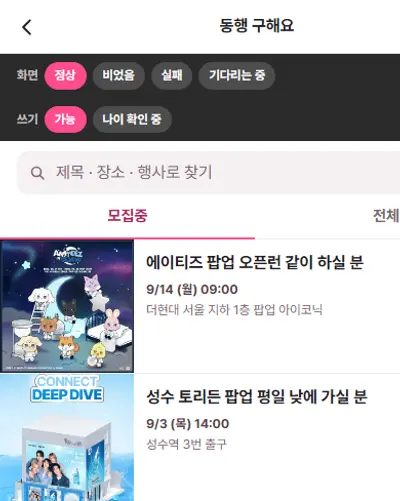
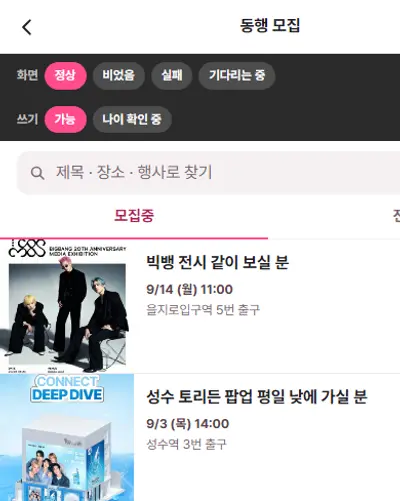
아티스트 목록에 포스터, 그리고 문구·활자 정리 다섯 건
- 아티스트 모아보기의 각 줄 앞에 포스터를 세웠다. 이름만 늘어놓으면
  스무 줄이 다 같아 보인다. 구·종류·마감은 둘째 줄로 내렸다
- 화면 제목 「동행 구해요」 → 「동행 모집」. 제목은 그 자리의 이름이지
  글쓴이가 쓸 문장이 아니다
- 내 프로필에서 「3일 이내 활동」 을 뺐다. 남의 프로필에서는 답이 올지를
  가늠하는 값이지만 내 화면에서는 나에 대해 아무것도 알려주지 않는다
- 탈퇴·탈퇴 완료 문구를 다시 썼다. 「~하려는 것입니다」 로 이유를 덧대는
  투와 「위 내용을 확인했고」 같은 서식 문장을 걷어냈다
- 백오피스 탭에서 AD-02 같은 명세 번호를 뺐다. 우리 문서의 줄 번호라
  쓰는 사람에게는 뜻이 없고, 문서가 바뀌면 화면이 거짓말을 한다
- 약관·처리방침을 14px 한 크기로 묶고 굵은 글씨를 전부 없앴다. 조 제목은
  색과 여백으로만 갈린다. 단서 상자의 색선도 뗐다

곁들여: 온보딩의 탈퇴 두 줄이 프로필 사진을 빌려 쓰고 있어 제 화면을
찍도록 고치고, 바뀐 화면들 스크린샷을 다시 받았다 (18장)

diff --git a/src/app/ui.css b/src/app/ui.css
@@ -1766,7 +1766,6 @@
   color: var(--text-dim);
 }
 
-.leave__list b { color: var(--text); font-weight: 700; }
 
 .leave__note {
   margin-top: 12px;
@@ -2115,56 +2114,40 @@
 
 /* ── 약관·처리방침 자리 ────────────────────────────────── */
 
-.legal { padding: 24px var(--gutter) 40px; }
-.legal__lead { font-size: var(--t-title); font-weight: 800; color: var(--text); }
-.legal__body {
-  margin-top: 10px;
-  font-size: var(--t-body);
-  line-height: 1.7;
-  color: var(--text-mute);
+/* 글자 크기를 문서 안에서 하나로 맞춘다. 앞머리·조문·목록·표·단서가
+   저마다 다른 크기면 어느 것이 본문인지 눈이 계속 다시 잡는다.
+   굵은 글씨도 안 쓴다 — 굵은 줄은 「여기만 읽어도 된다」 는 신호가
+   되는데 약관에 그런 줄은 없다 */
+.legal {
+  --t-legal: 14px;
+  padding: 24px var(--gutter) 40px;
+  font-size: var(--t-legal);
 }
+/* 앞머리도 본문과 같은 크기다. 여기만 크게 두면 그 한 줄이 요약처럼
+   보이는데, 요약해서 될 글이 아니다 */
+.legal__lead { color: var(--text); }
+/* 조 제목은 굵기가 아니라 색과 위 여백으로만 갈린다. 종이에 인쇄된
+   약관이 그렇게 생겼다 */
 .legal__h {
   margin-top: 26px;
-  font-size: var(--t-strong);
-  font-weight: 700;
+  /* h2 라서 크기를 안 적으면 브라우저 기본값(1.5em)으로 커진다 */
+  font-size: inherit;
+  font-weight: 400;
   color: var(--text);
 }
-.legal__todo { list-style: none; margin: 10px 0 0; padding: 0; display: flex; flex-direction: column; gap: 8px; }
-.legal__todo li {
-  padding-left: 13px;
-  border-left: 2px solid var(--border-mid);
-  font-size: var(--t-sub);
-  line-height: 1.6;
-  color: var(--text-mute);
-}
-.legal__back { margin-top: 28px; font-size: var(--t-sub); }
+.legal__back { margin-top: 28px; }
 
 /* ── 약관·처리방침 본문 ─────────────────────────────────
    조문이 길어서 읽는 자리가 흐트러지지 않게 줄간격을 넉넉히 준다.
    법 문서는 훑는 것이 아니라 한 줄씩 읽는 글이다.
    ------------------------------------------------------- */
 
-/* 검토 전이라는 사실을 맨 위에서 못 박는다. 아래로 내리면 다 읽고
-   나서야 알게 된다 */
-.legal__draft {
-  margin-bottom: 18px;
-  padding: 12px 14px;
-  border-radius: var(--radius-sm);
-  background: var(--bg-sunk);
-  border: 1px solid var(--border-mid);
-  font-size: var(--t-sub);
-  line-height: 1.6;
-  color: var(--text-dim);
-}
-.legal__draft b { color: var(--accent-ink); font-weight: 700; }
-
-.legal__dates { margin-top: 8px; font-size: var(--t-small); }
+.legal__dates { margin-top: 8px; font-size: var(--t-legal); }
 
 .legal__sec { margin-top: 4px; }
 
 .legal__p {
   margin-top: 8px;
-  font-size: var(--t-sub);
   line-height: 1.75;
   color: var(--text-mute);
 }
@@ -2177,7 +2160,6 @@
   gap: 7px;
 }
 .legal__list li {
-  font-size: var(--t-sub);
   line-height: 1.65;
   color: var(--text-mute);
 }
@@ -2187,7 +2169,6 @@
 .legal__table {
   width: 100%;
   border-collapse: collapse;
-  font-size: var(--t-small);
   line-height: 1.55;
 }
 .legal__table th,
@@ -2198,22 +2179,20 @@
   vertical-align: top;
   word-break: keep-all;
 }
+/* 머리 칸은 바탕색으로만 갈린다 */
 .legal__table th {
   background: var(--bg-sunk);
-  font-weight: 700;
+  font-weight: 400;
   color: var(--text);
   white-space: nowrap;
 }
 .legal__table td { color: var(--text-mute); }
 
-/* 조문에 딸리는 단서. 본문과 같은 무게로 두면 어디까지가 조문이고
-   어디부터가 부연인지 갈리지 않는다 */
+/* 조문에 딸리는 단서. 색만 한 칸 흐리게 둔다. 색선을 그어두면
+   조문보다 그쪽이 먼저 눈에 들어온다 */
 .legal__note {
   margin-top: 10px;
-  padding-left: 12px;
-  border-left: 2px solid var(--accent);
-  font-size: var(--t-small);
-  line-height: 1.65;
+  line-height: 1.75;
   color: var(--text-dim);
 }
 
@@ -2464,7 +2443,6 @@
   color: var(--text);
   font-weight: 800;
 }
-.bo__tspec { font-size: var(--t-small); font-weight: 500; color: var(--text-mute); }
 
 /* 탭을 열었을 때 그 목록이 무엇인지 한 줄. 표만 있으면 「기록」 이
    무엇을 남기는 목록인지 운영자가 짐작해야 한다 */
@@ -3186,3 +3164,14 @@
 /* 헤더 오른쪽에 버튼 둘. 방장이 OPEN 글을 볼 때만 나온다.
    완료와 취소는 되돌릴 수 없는 것이 둘 다라 나란히 두고,
    무엇을 누르는지는 시트가 다시 묻는다 */
+
+/* 아티스트 모아보기의 한 줄.
+   포스터를 앞에 세우면서 구·종류·마감을 둘째 줄로 내렸다. 한 줄에 다
+   두면 사진이 먹은 폭 때문에 좁은 화면에서 넉 줄로 접힌다 */
+.drow--shot { align-items: center; }
+.drow__sub {
+  display: block;
+  margin-top: 3px;
+  font-size: var(--t-small);
+  color: var(--text-mute);
+}

diff --git a/src/app/w4871/me/leave/Leave.tsx b/src/app/w4871/me/leave/Leave.tsx
@@ -63,8 +63,8 @@ export default function Leave() {
     <PageShell title="회원 탈퇴" onBack={() => history.back()}>
       <div className="leave">
         <p className="leave__lead">
-          탈퇴하면 계정을 되살릴 수 없어요. 같은 카카오 계정으로 다시
-          가입해도 이전 기록은 돌아오지 않습니다.
+          탈퇴하면 되돌릴 수 없어요. 같은 카카오 계정으로 다시 가입해도
+          예전 기록은 안 돌아와요.
         </p>
 
         {/* 지워지는 것과 남는 것을 나란히 둔다. 하나만 적으면 나머지를
@@ -72,7 +72,7 @@ export default function Leave() {
         <section className="leave__box">
           <h2 className="leave__h">지워지는 것</h2>
           <ul className="leave__list">
-            <li>닉네임 · 한줄소개 · 프로필 사진</li>
+            <li>닉네임, 한줄소개, 프로필 사진</li>
             <li>카카오 연결</li>
           </ul>
         </section>
@@ -81,17 +81,17 @@ export default function Leave() {
           <h2 className="leave__h">남는 것</h2>
           <ul className="leave__list">
             <li>
-              쓴 모집글과 댓글은 <b>닉네임을 지운 채 자리표시자로</b> 남습니다.
-              오가던 대화의 맥락이 끊기지 않게 하려는 것입니다
+              쓰신 모집글과 댓글. 닉네임은 지우고 빈 자리로 둬요. 주고받던
+              말이 중간에 끊기지 않게요
             </li>
             <li>
-              신고·제재 기록은 정해진 기간 동안 남습니다. 제재를 피해 탈퇴한 뒤
-              다시 가입하는 것을 막기 위한 것이고, 그 목적에만 씁니다
+              신고나 이용 제한을 받은 기록. 정해진 기간 동안만 두고, 제재를
+              피해 나갔다 다시 들어오는 것을 막는 데만 써요
             </li>
           </ul>
           <p className="leave__note">
-            자세한 보관 기간은{' '}
-            <Link href="/privacy">개인정보 처리방침</Link> 제3조에 있습니다.
+            얼마나 두는지는{' '}
+            <Link href="/privacy">개인정보 처리방침</Link> 제3조에 적어뒀어요.
           </p>
         </section>
 
@@ -101,7 +101,7 @@ export default function Leave() {
             checked={agreed}
             onChange={(e) => setAgreed(e.target.checked)}
           />
-          <span>위 내용을 확인했고, 탈퇴에 동의합니다</span>
+          <span>다 읽었어요. 탈퇴할게요</span>
         </label>
 
         {failed && <p className="leave__err">{failed}</p>}
@@ -109,7 +109,7 @@ export default function Leave() {
 
       <div className="form__bar">
         <Button block tone="danger" disabled={!agreed || sending} onClick={submit}>
-          {sending ? '처리하는 중…' : '탈퇴하기'}
+          {sending ? '탈퇴하는 중…' : '탈퇴하기'}
         </Button>
       </div>
     </PageShell>

diff --git a/src/app/privacy/page.tsx b/src/app/privacy/page.tsx
@@ -61,7 +61,7 @@ const SECTIONS: LegalSection[] = [
       ['영구 정지', '조치일로부터 3년'],
       ['접속 기록', '3개월 (통신비밀보호법)'],
     ],
-    note: '이용 제한 기록을 두는 목적은 하나뿐입니다. 제재를 피하려고 탈퇴한 뒤 다시 가입하는 것을 막는 것입니다. 그래서 가벼운 조치일수록 짧게 둡니다. 위 기간에는 법이 정한 숫자가 없고(접속 기록만 통신비밀보호법을 따릅니다), 그 목적에 필요한 최소 기간으로 정한 것입니다. 기간이 지난 기록은 지체 없이 파기합니다.',
+    note: '이용 제한 기록은 제재를 피하려고 탈퇴한 뒤 다시 가입하는 것을 막는 데에만 씁니다. 그래서 가벼운 조치일수록 짧게 둡니다. 위 기간은 법이 정한 것이 아니라(접속 기록만 통신비밀보호법을 따릅니다) 그 목적에 필요한 최소한으로 정한 것이며, 기간이 지나면 지체 없이 파기합니다.',
   },
   {
     head: '제4조 (개인정보의 제3자 제공)',
@@ -153,7 +153,7 @@ const SECTIONS: LegalSection[] = [
         '아무 조치도 하지 않습니다',
       ],
     ],
-    note: '마지막 줄을 명시하는 이유는, 신고만으로 남의 계정을 지울 수 있게 두면 그 자체가 악용되기 때문입니다. 확인 과정에서는 판단에 필요한 최소한의 정보 외에 어떤 자료도 요구하지 않으며, 신분증 같은 것을 보내달라고 하지 않습니다.',
+    note: '신고만으로 남의 계정을 지울 수 있게 두면 그것부터 악용되므로 확인 절차를 둡니다. 확인할 때에도 판단에 필요한 최소한 외에는 아무 자료도 요구하지 않으며, 신분증 같은 것을 보내달라고 하지 않습니다.',
   },
   {
     head: '제11조 (정보주체의 권리와 행사 방법)',
@@ -233,7 +233,7 @@ export default function Page() {
       title="개인정보 처리방침"
       updated="2026-09-02"
       effective="2026-09-02"
-      lead="덕모임이 어떤 정보를 받고, 무엇에 쓰고, 언제 지우는지 적었습니다."
+      lead="덕모임이 어떤 정보를 받아 무엇에 쓰고 언제 지우는지에 관한 것입니다."
       sections={SECTIONS}
     />
   )

diff --git a/src/app/a/[subject]/SubjectList.tsx b/src/app/a/[subject]/SubjectList.tsx
@@ -16,6 +16,7 @@
 import { useMemo, useState } from 'react'
 import type { EventItem } from '@/types'
 import { DISTRICT_LABELS, EVENT_KIND_LABELS } from '@/lib/filters'
+import { posterSrc } from '@/lib/poster'
 
 export function SubjectList({ events }: { events: EventItem[] }) {
   const [q, setQ] = useState('')
@@ -57,14 +58,24 @@ export function SubjectList({ events }: { events: EventItem[] }) {
       ) : (
         <div className="dlist">
           {hits.map((ev) => (
-            <div className="drow" key={ev.id}>
-              <span className="drow__label">{DISTRICT_LABELS[ev.place.district]}</span>
+            <div className="drow drow--shot" key={ev.id}>
+              {/* 이름만 늘어놓으면 스무 줄이 다 같아 보인다. 포스터가 곧
+                  그 행사의 얼굴이라 작게라도 앞에 세운다 — 상세의
+                  「근처에서 열려요」 와 같은 크기를 쓴다 */}
+              <span className="near__thumb">
+                {ev.imageUrl && <img src={posterSrc(ev.imageUrl, 160)} alt="" loading="lazy" />}
+              </span>
               <span className="drow__value">
                 <a href={`/e/${encodeURIComponent(ev.id)}`}>{ev.place.name}</a>
-                {' · '}
-                {EVENT_KIND_LABELS[ev.kind]}
-                {' · '}~{ev.endsOn}
-                {ev.perks ? ` · ${ev.perks}` : ''}
+                {/* 구·종류·마감을 둘째 줄로 내린다. 사진이 앞을 먹어
+                    한 줄에 다 넣으면 좁은 화면에서 넉 줄로 접힌다 */}
+                <span className="drow__sub">
+                  {DISTRICT_LABELS[ev.place.district]}
+                  {' · '}
+                  {EVENT_KIND_LABELS[ev.kind]}
+                  {' · '}~{ev.endsOn}
+                  {ev.perks ? ` · ${ev.perks}` : ''}
+                </span>
               </span>
             </div>
           ))}

diff --git a/src/components/ProfileView.tsx b/src/components/ProfileView.tsx
@@ -32,7 +32,7 @@ import { Avatar, Badge, Blank, Button, Sheet, Tabs } from '@/components/ui/Basic
 import { ReportSheet } from '@/components/ui/ReportSheet'
 import { SanctionBanner, SanctionBlock } from '@/components/ui/SanctionNotice'
 import { swatchOf } from '@/lib/visual'
-import { canWrite, isBlocked, isClosed, LAST_SEEN_LABEL, type ClosedReason, type LastSeen, type PostState, type Sanction } from '@/types'
+import { canWrite, isBlocked, isClosed, type ClosedReason, type LastSeen, type PostState, type Sanction } from '@/types'
 import { wf } from '@/lib/wireframe'
 import { shortTime as whenShort } from '@/lib/when'
 
@@ -271,9 +271,7 @@ export default function ProfileView({
 
               <div className="myid__main">
                 <p className="myid__name">{user.nickname}</p>
-                <p className="myid__meta meta">
-                  {user.lastSeen && <span>{LAST_SEEN_LABEL[user.lastSeen]}</span>}
-                </p>
+
                 {/* 한줄소개를 내 화면에도 띄운다. 남에게 보이는 문구라
                     내 화면에서 안 보이면 무엇이 걸려 있는지 모른 채로
                     남는다. 비어 있으면 채우라고 말해준다 */}

diff --git a/src/app/w4871/bye/page.tsx b/src/app/w4871/bye/page.tsx
@@ -25,18 +25,16 @@ export default function Page() {
       <div className="bye">
         <img className="bye__mark" src="/duck-face.webp" alt="" width={88} height={88} />
 
-        <h1 className="bye__title">탈퇴가 끝났어요</h1>
+        <h1 className="bye__title">탈퇴했어요</h1>
 
         {/* 무엇이 남았는지 한 번 더 말한다. 탈퇴 화면에서 읽었더라도
             방금 일어난 일이라 여기서 확인받고 싶어한다 */}
         <p className="bye__desc">
-          회원 정보를 지웠습니다. 쓰신 글과 댓글은 닉네임 없이 자리표시자로
-          남아 있어요.
+          회원 정보를 지웠어요. 쓰신 글과 댓글은 닉네임 없이 남아 있고요.
         </p>
 
         <p className="bye__sub">
-          다시 오고 싶어지면 카카오로 새로 가입하시면 됩니다. 다만 이전
-          기록은 돌아오지 않아요.
+          언제든 카카오로 새로 가입하면 돼요. 예전 기록은 안 돌아와요.
         </p>
 
         <Link className="btn btn--primary btn--block" href={wf('/')}>

diff --git a/src/app/w4871/admin15616/Admin.tsx b/src/app/w4871/admin15616/Admin.tsx
@@ -242,10 +242,12 @@ const AUDIT: AuditEntry[] = [
 
 type Tab = 'reports' | 'sanctions' | 'audit'
 
-const TABS: { key: Tab; label: string; spec: string }[] = [
-  { key: 'reports', label: '신고', spec: 'AD-02 · AD-03 · AD-07' },
-  { key: 'sanctions', label: '제재', spec: 'AD-04' },
-  { key: 'audit', label: '기록', spec: 'AD-05' },
+/* 명세 번호(AD-02 …)는 안 적는다. 우리 문서의 줄 번호라 쓰는
+   사람에게는 아무 뜻이 없고, 문서가 바뀌면 화면이 거짓말을 한다 */
+const TABS: { key: Tab; label: string }[] = [
+  { key: 'reports', label: '신고' },
+  { key: 'sanctions', label: '제재' },
+  { key: 'audit', label: '기록' },
 ]
 
 export default function Admin() {
@@ -381,7 +383,6 @@ export default function Admin() {
             onClick={() => setTab(t.key)}
           >
             {t.label}
-            <span className="bo__tspec">{t.spec}</span>
           </button>
         ))}
       </nav>

diff --git a/src/app/onboarding/page.tsx b/src/app/onboarding/page.tsx
@@ -171,7 +171,7 @@ const groups = (live: { event: string; artist: string }): Group[] => [
       {
         href: wf('/me/leave'),
         name: '회원 탈퇴',
-        shot: 'profile',
+        shot: 'leave',
         spec: 'AU-11',
         desc: '무엇이 지워지고 무엇이 남는지 먼저 말합니다',
         data: '목데이터',
@@ -179,7 +179,7 @@ const groups = (live: { event: string; artist: string }): Group[] => [
       {
         href: wf('/bye'),
         name: '탈퇴 완료',
-        shot: 'profile',
+        shot: 'bye',
         spec: 'AU-11',
         desc: '탈퇴 직후에만 보이는 화면입니다',
         data: '빈 화면',

diff --git a/src/app/terms/page.tsx b/src/app/terms/page.tsx
@@ -170,7 +170,7 @@ export default function Page() {
       title="이용약관"
       updated="2026-09-02"
       effective="2026-09-02"
-      lead="덕모임을 쓸 때의 약속입니다. 운영팀이 무엇을 하고 무엇을 하지 않는지, 문제가 생기면 어떻게 처리하는지 적었습니다."
+      lead="덕모임을 쓸 때 운영팀과 회원이 지키기로 한 것입니다."
       sections={SECTIONS}
     />
   )

diff --git a/src/app/w4871/p/page.tsx b/src/app/w4871/p/page.tsx
@@ -12,7 +12,7 @@ import PostList, { type ListItem } from './PostList'
  * 지금은 가짜 데이터라 색인을 막아 둔다.
  */
 export const metadata: Metadata = {
-  title: '동행 구해요 · 덕모임',
+  title: '동행 모집 · 덕모임',
   robots: { index: false, follow: false },
 }
 

diff --git a/src/app/w4871/p/[id]/PostDetail.tsx b/src/app/w4871/p/[id]/PostDetail.tsx
@@ -183,7 +183,7 @@ export default function PostDetail({ post, comments, hostId }: {
 
   return (
     <PageShell
-      title="동행 구해요"
+      title="동행 모집"
       right={
         isHost ? (
           /* 끝난 글에는 남기지 않는다. 되돌릴 수 없다고 말해놓고

diff --git a/src/app/w4871/p/PostList.tsx b/src/app/w4871/p/PostList.tsx
@@ -91,7 +91,7 @@ export default function PostList({ posts }: { posts: ListItem[] }) {
   }, [posts, tab, q])
 
   return (
-    <PageShell title="동행 구해요">
+    <PageShell title="동행 모집">
       <div className="whoami">
         <b>화면</b>
         {VIEWS.map((v) => (
